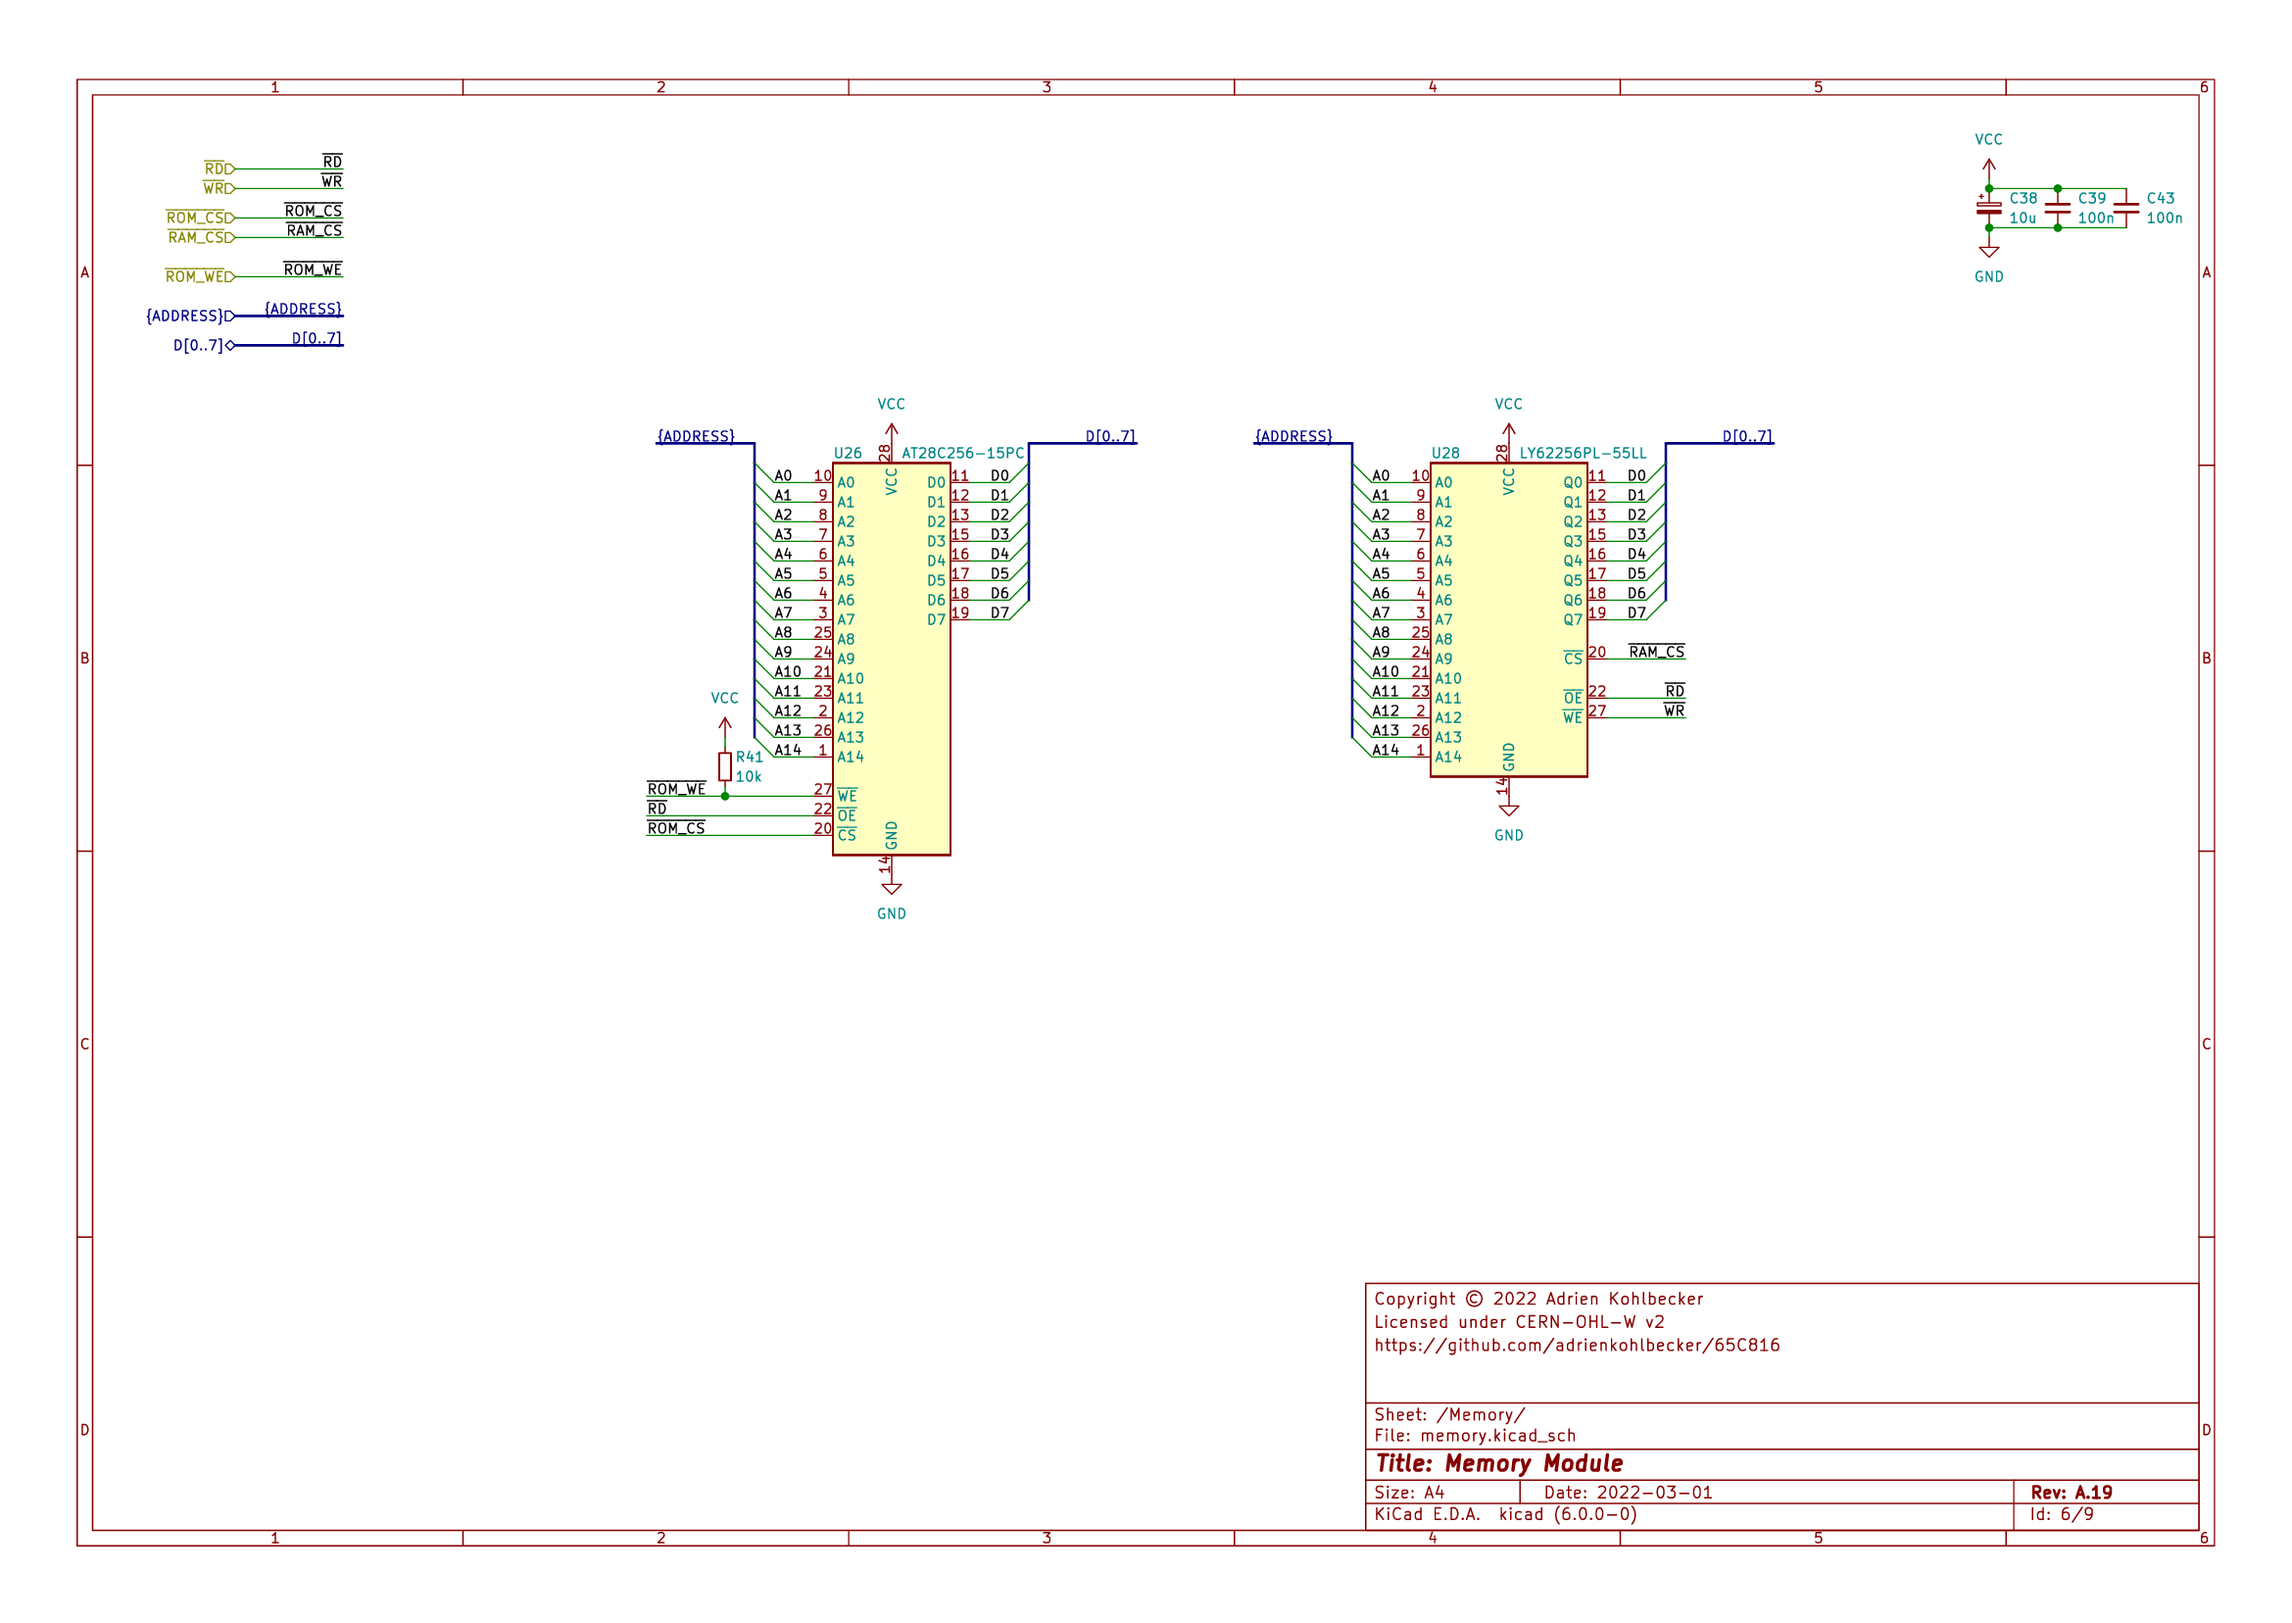
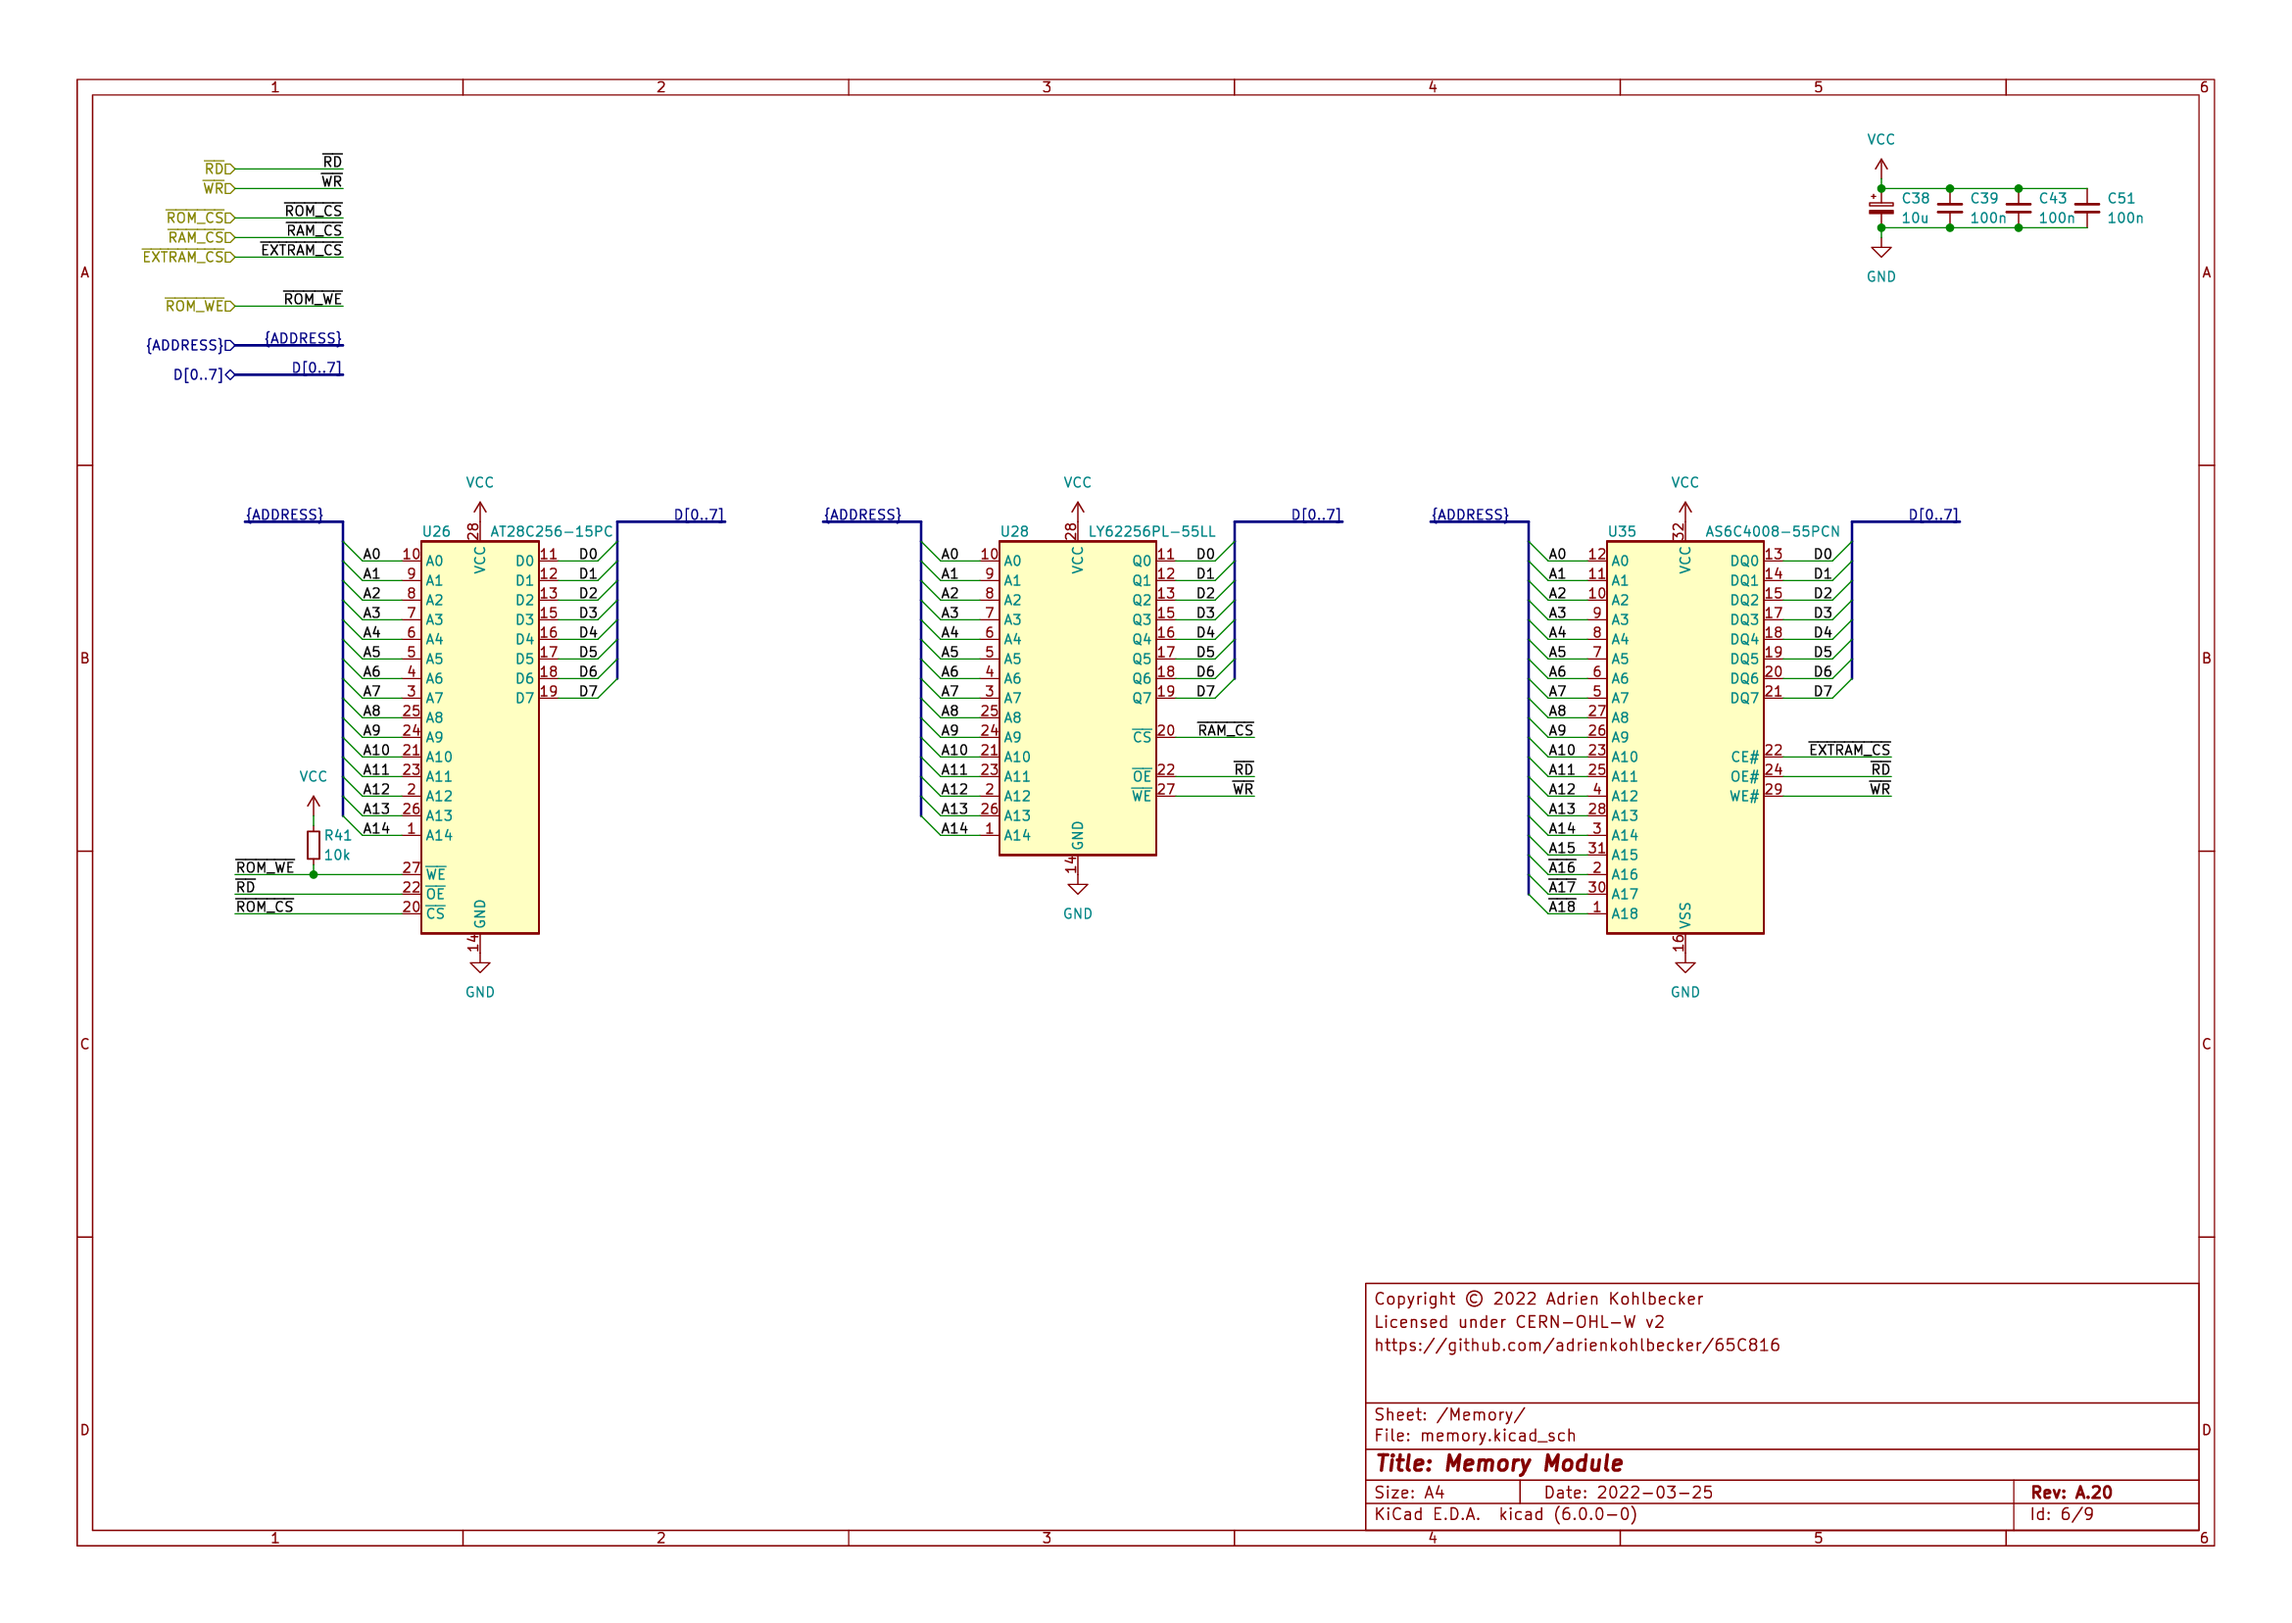
Updates for episode 20

diff --git a/thumbnails/thumbnail.py b/thumbnails/thumbnail.py
@@ -26,7 +26,8 @@ episodes = [
     'Address decoding\nrework',
     'Troubleshooting\nBus Monitor',
     'VDA, VPA, RD, WR',
-    'New CLK phase\nWR timing'
+    'New CLK phase\nWR timing',
+    'Extended RAM'
 ]
 
 path = './thumbnails/'
@@ -34,7 +35,7 @@ pathfmt = path + '{:d}.{}'
 
 for num, episode in enumerate(episodes, start=0):
 
-    if num < 19:
+    if num < 20:
         continue
 
     with Image.open(pathfmt.format(num, 'png')) as im:

diff --git a/README.md b/README.md
@@ -71,7 +71,7 @@ The goals of the YouTube series are to provide a good description of all the des
 
 ### KiCad components
 
-**Component Count:** 158
+**Component Count:** 160
 
 | Refs | Qty | Component | Description |
 | ----- | --- | ---- | ----------- |
@@ -81,7 +81,7 @@ The goals of the YouTube series are to provide a good description of all the des
 | BAR6 | 1 | Red | BAR GRAPH 8 segment |
 | C1 | 1 | 220u | Polarized capacitor, small symbol |
 | C2, C16, C25, C31, C38, C40, C42 | 7 | 10u | Polarized capacitor, small symbol |
-| C3, C4, C5, C6, C7, C8, C9, C10, C17, C18, C19, C20, C21, C22, C23, C24, C26, C27, C28, C29, C30, C32, C33, C34, C35, C36, C37, C39, C41, C43, C44, C45, C46, C47, C49, C50 | 36 | 100n | Unpolarized capacitor, small symbol |
+| C3, C4, C5, C6, C7, C8, C9, C10, C17, C18, C19, C20, C21, C22, C23, C24, C26, C27, C28, C29, C30, C32, C33, C34, C35, C36, C37, C39, C41, C43, C44, C45, C46, C47, C49, C50, C51 | 37 | 100n | Unpolarized capacitor, small symbol |
 | C11, C12, C13 | 3 | 2.2u | Polarized capacitor, small symbol |
 | C14 | 1 | 1u | Polarized capacitor, small symbol |
 | C15 | 1 | 10n | Unpolarized capacitor, small symbol |
@@ -139,6 +139,7 @@ The goals of the YouTube series are to provide a good description of all the des
 | U32 | 1 | 74AHC138 | Decoder 3 to 8 active low outputs |
 | U33 | 1 | Teensy++2.0 |  |
 | U34 | 1 | 74AC10 | Triple 3-input NAND |
+| U35 | 1 | AS6C4008-55PCN | 512K x 8 Low Power CMOS RAM, DIP-32 |
 | U36 | 1 | 74AHC02 | quad 2-input NOR gate |
 | X1 | 1 | 20MHz | Crystal Clock Oscillator, DIP14-style metal package |
 
